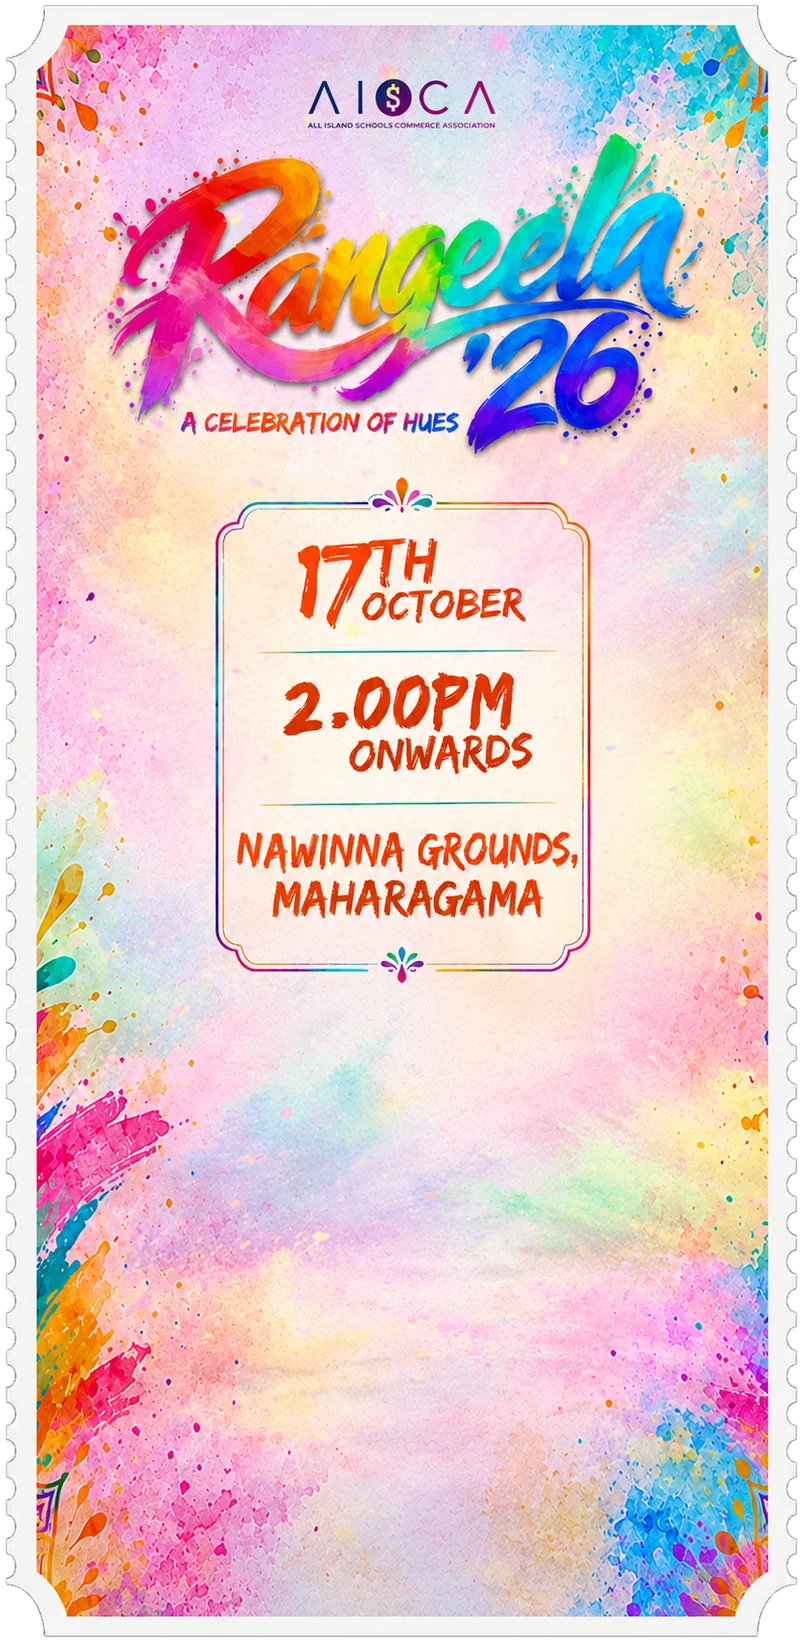
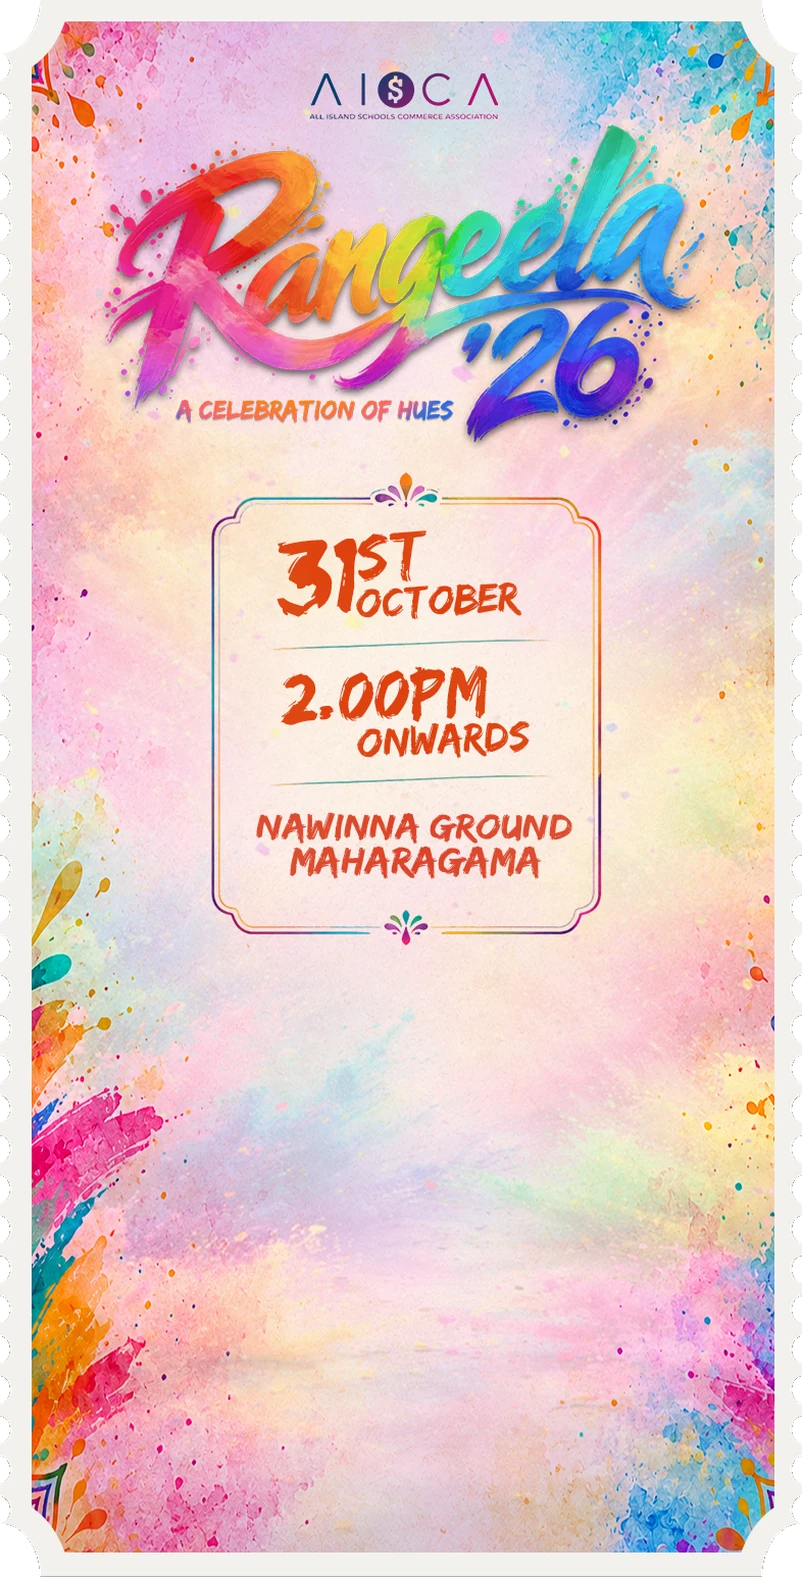
Rangeela: postponed to 31 Oct, new ticket art, notice

diff --git a/src/app/rangeela26/RangeelaClient.tsx b/src/app/rangeela26/RangeelaClient.tsx
@@ -222,6 +222,18 @@ export default function RangeelaClient({ serverNow, prices: serverPrices }: { se
       </div>
 
       <main className="lg-main">
+        {/* ── Date change notice ── */}
+        {RANGEELA.postponedNotice && (
+          <div className="lg-wrap lg-notice-wrap">
+            <motion.div initial={{ opacity: 0, y: -8 }} animate={{ opacity: 1, y: 0 }} transition={{ duration: 0.6, ease }} role="status" className="lg-glass lg-notice">
+              <span className="lg-notice-badge"><CalendarDays size={15} strokeWidth={2.4} /> New date</span>
+              <p className="lg-notice-text">
+                <strong>RANGEELA &apos;26 is postponed to {RANGEELA.dateLabel}.</strong> {RANGEELA.postponedNotice}
+              </p>
+            </motion.div>
+          </div>
+        )}
+
         {/* ── Hero ── */}
         <div className="lg-wrap lg-hero">
           <motion.div initial={{ opacity: 0, y: 14, scale: 0.985 }} animate={{ opacity: 1, y: 0, scale: 1 }} transition={{ duration: 0.9, ease }} className="lg-glass lg-hero-frame">
@@ -338,7 +350,7 @@ export default function RangeelaClient({ serverNow, prices: serverPrices }: { se
               {[
                 { key: 'early', name: 'Early bird', amount: PRICING.earlyBird, when: `Until ${PRICING.earlyBirdEndsLabel}`, color: C.magenta, active: early && open, over: !early },
                 { key: 'online', name: 'Online', amount: P.standard, when: '10th October until the event', color: C.orange, active: !early && open, over: !open },
-                { key: 'gate', name: 'At the gate', amount: P.gate, when: 'On the day, 17th October', color: C.violet, active: !open, over: false },
+                { key: 'gate', name: 'At the gate', amount: P.gate, when: `On the day, ${RANGEELA.dateShort}`, color: C.violet, active: !open, over: false },
               ].map((t) => (
                 <div key={t.key} className={`lg-tier ${t.active ? 'is-active' : ''} ${t.over ? 'is-over' : ''}`} style={t.active ? { borderColor: t.color, boxShadow: `0 14px 30px -16px ${t.color}` } : undefined}>
                   {t.active && <span className="lg-tier-badge" style={{ background: t.color }}>Now</span>}
@@ -661,6 +673,13 @@ export default function RangeelaClient({ serverNow, prices: serverPrices }: { se
         .lg-icon-btn { width: 36px; height: 36px; display: flex; align-items: center; justify-content: center; border: none; background: rgba(255,255,255,0.7); border-radius: 50%; color: ${C.muted}; cursor: pointer; flex-shrink: 0; }
         .lg-check { display: flex; gap: 12px; align-items: flex-start; margin-top: 20px; cursor: pointer; font-size: 14px; line-height: 1.6; color: ${C.body}; }
         .lg-check input { width: 22px; height: 22px; margin-top: 1px; accent-color: ${C.violet}; flex-shrink: 0; }
+        .lg-notice-wrap { padding-bottom: 14px; }
+        .lg-notice { position: relative; display: flex; align-items: center; gap: 14px; padding: 14px 18px; border-radius: 22px; overflow: hidden; }
+        .lg-notice::before { content: ''; position: absolute; inset: 0; border-radius: inherit; padding: 1.5px; background: linear-gradient(100deg, #E6007E, #FF7A00, #FFC400, #00A8E8, #7B2FF7); -webkit-mask: linear-gradient(#000 0 0) content-box, linear-gradient(#000 0 0); -webkit-mask-composite: xor; mask-composite: exclude; pointer-events: none; }
+        .lg-notice-badge { flex-shrink: 0; display: inline-flex; align-items: center; gap: 6px; padding: 7px 12px; border-radius: 999px; color: #fff; font-size: 12.5px; font-weight: 800; letter-spacing: .04em; text-transform: uppercase; background: linear-gradient(100deg, #E6007E, #FF7A00); box-shadow: 0 8px 18px -8px rgba(230,0,126,0.6); }
+        .lg-notice-text { margin: 0; font-size: 14.5px; line-height: 1.55; color: #3B2A38; }
+        .lg-notice-text strong { color: #D9480F; font-weight: 800; }
+        @media (max-width: 640px) { .lg-notice { flex-direction: column; align-items: flex-start; gap: 10px; padding: 14px 16px; } .lg-notice-text { font-size: 14px; } }
         .lg-alert { display: flex; gap: 10px; align-items: flex-start; padding: 13px 15px; border-radius: 18px; background: rgba(255,240,240,0.9); border: 1px solid #FBC6C6; color: #B42318; font-size: 14px; line-height: 1.55; margin-bottom: 18px; }
         .lg-help { text-align: center; font-size: 13px; color: ${C.muted}; margin: 14px 0 0; }
         .lg-help a { color: ${C.violet}; font-weight: 700; }

diff --git a/src/app/rangeela26/ticket/[token]/TicketView.tsx b/src/app/rangeela26/ticket/[token]/TicketView.tsx
@@ -1,15 +1,16 @@
 'use client'
 
 import { useState } from 'react'
+import { RANGEELA } from '@/lib/rangeela'
 
 // The RANGEELA '26 ticket, drawn on the official ticket artwork with the
 // student's own QR code, name and ticket number in the empty space.
-// Positions are percentages of the artwork (802 x 1642) so it looks the
+// Positions are percentages of the artwork (802 x 1577) so it looks the
 // same on every screen, and "Save ticket" paints the same layout onto a
 // canvas so students can keep a copy in their photos.
 
 const W = 802
-const H = 1642
+const H = 1577
 const INK = '#241628'
 const ORANGE = '#D9480F'
 const VIOLET = '#7B2FF7'
@@ -18,11 +19,11 @@ const BODY = "'Inter', -apple-system, BlinkMacSystemFont, system-ui, sans-serif"
 
 // Layout on the artwork, in artwork pixels
 const L = {
-  nameY: 1024,
-  schoolY: 1067,
-  qrX: 216, qrY: 1095, qrSize: 369, qrPad: 20,
-  pillY: 1503,
-  noteY: 1556,
+  nameY: 987,
+  schoolY: 1029,
+  qrX: 223, qrY: 1056, qrSize: 356, qrPad: 20,
+  pillY: 1449,
+  noteY: 1499,
 }
 
 type Props = {
@@ -120,6 +121,12 @@ export default function TicketView(p: Props) {
           </div>
         ) : (
           <>
+            {RANGEELA.postponedNotice && (
+              <div className="tk-glass tk-notice" role="status">
+                <strong>New date: {RANGEELA.dateLabel}</strong>
+                <span>This ticket is valid for the new date.</span>
+              </div>
+            )}
             <div className="tk-ticket" role="img" aria-label={`RANGEELA '26 ticket for ${p.name}, ${p.ticketNumber}`}>
               <img src="/rangeela/ticket-bg.webp" alt="" className="tk-art" />
               <div className="tk-name" style={{ top: pct(L.nameY, H), fontSize: `${Math.min(5.4, 118 / Math.max(1, (p.name || '').length))}cqw` }}>{p.name}</div>
@@ -151,7 +158,7 @@ export default function TicketView(p: Props) {
               <a className="tk-btn tk-btn-wa" href={p.whatsappGroup} target="_blank" rel="noopener noreferrer">Join the WhatsApp group</a>
             </div>
             {saveError && <p className="tk-err">{saveError}</p>}
-            <p className="tk-foot">Saturday, 17th October 2026 · 2.00 PM onwards · Nawinna Grounds, Maharagama</p>
+            <p className="tk-foot">{RANGEELA.dateLabel} · {RANGEELA.timeLabel} · {RANGEELA.venue}</p>
           </>
         )}
       </div>
@@ -178,6 +185,8 @@ export default function TicketView(p: Props) {
         .tk-note { font-size: 2.1cqw; font-weight: 700; letter-spacing: .16em; text-transform: uppercase; color: ${INK}; opacity: .7; }
 
         .tk-glass { background: rgba(255,255,255,0.55); border: 1px solid rgba(255,255,255,0.8); -webkit-backdrop-filter: blur(22px) saturate(170%); backdrop-filter: blur(22px) saturate(170%); box-shadow: 0 10px 30px -14px rgba(60,20,80,0.25), inset 0 1px 0 rgba(255,255,255,0.95); border-radius: 22px; }
+        .tk-notice { display: flex; flex-direction: column; gap: 2px; margin-bottom: 14px; padding: 11px 16px; text-align: center; font-size: 13.5px; line-height: 1.45; color: #4E3E4B; border-color: rgba(230,0,126,0.35); }
+        .tk-notice strong { font-family: ${DISPLAY}; font-size: 16px; font-weight: 800; color: ${ORANGE}; }
         .tk-info { margin-top: 18px; padding: 14px 16px; font-size: 14px; line-height: 1.6; color: #4E3E4B; text-align: center; }
         .tk-info-used { color: #B42318; font-weight: 600; }
         .tk-actions { display: flex; flex-direction: column; gap: 10px; margin-top: 14px; }

diff --git a/src/app/rangeela26/page.tsx b/src/app/rangeela26/page.tsx
@@ -13,19 +13,19 @@ export async function generateMetadata(): Promise<Metadata> {
   return {
   title: "RANGEELA '26 | A Celebration of Hues",
   description:
-    `RANGEELA '26 by AISCA. One canvas, a thousand hues. Saturday 17th October 2026, 2.00 PM onwards at Nawinna Grounds, Maharagama. ${priceLine}`,
+    `RANGEELA '26 by AISCA. One canvas, a thousand hues. Saturday 31st October 2026, 2.00 PM onwards at Nawinna Grounds, Maharagama. ${priceLine}`,
   alternates: { canonical: 'https://aisca.lk/rangeela26' },
   openGraph: {
     type: 'website',
     url: 'https://aisca.lk/rangeela26',
     title: "RANGEELA '26 | A Celebration of Hues",
-    description: `The colours are calling. 17th October, Nawinna Grounds, Maharagama, 2.00 PM onwards. ${priceLine}`,
+    description: `The colours are calling. 31st October, Nawinna Grounds, Maharagama, 2.00 PM onwards. ${priceLine}`,
     images: [{ url: 'https://aisca.lk/rangeela/og.jpg', width: 1200, height: 630, alt: "RANGEELA '26 A Celebration of Hues" }],
   },
   twitter: {
     card: 'summary_large_image',
     title: "RANGEELA '26 | A Celebration of Hues",
-    description: `The colours are calling. 17th October, Nawinna Grounds, Maharagama. ${priceLine}`,
+    description: `The colours are calling. 31st October, Nawinna Grounds, Maharagama. ${priceLine}`,
     images: ['https://aisca.lk/rangeela/og.jpg'],
   },
   }

diff --git a/src/lib/rangeela-email.ts b/src/lib/rangeela-email.ts
@@ -83,7 +83,7 @@ export async function sendRangeelaReceivedEmail({ to, name, ticketNumber, amount
   <tr><td style="padding:0 32px 14px;">
     <table role="presentation" width="100%" cellpadding="0" cellspacing="0">
       <tr>
-        <td width="33%" style="padding:10px 6px;text-align:center;background:#FFF1E6;border-radius:12px;"><p style="margin:0;font-size:10px;letter-spacing:1.5px;text-transform:uppercase;color:#A0826B;font-family:${FONT};">Date</p><p style="margin:4px 0 0;font-size:14px;font-weight:bold;color:#E0561B;font-family:${FONT};">17th October</p></td>
+        <td width="33%" style="padding:10px 6px;text-align:center;background:#FFF1E6;border-radius:12px;"><p style="margin:0;font-size:10px;letter-spacing:1.5px;text-transform:uppercase;color:#A0826B;font-family:${FONT};">Date</p><p style="margin:4px 0 0;font-size:14px;font-weight:bold;color:#E0561B;font-family:${FONT};">31st October</p></td>
         <td width="4"></td>
         <td width="33%" style="padding:10px 6px;text-align:center;background:#EEF6FF;border-radius:12px;"><p style="margin:0;font-size:10px;letter-spacing:1.5px;text-transform:uppercase;color:#6B7FA0;font-family:${FONT};">Time</p><p style="margin:4px 0 0;font-size:14px;font-weight:bold;color:#2563EB;font-family:${FONT};">2.00 PM onwards</p></td>
         <td width="4"></td>

diff --git a/src/lib/rangeela.ts b/src/lib/rangeela.ts
@@ -5,14 +5,16 @@
 export const RANGEELA = {
   name: "RANGEELA '26",
   tagline: 'A Celebration of Hues',
-  dateLabel: 'Saturday, 17th October 2026',
-  dateShort: '17th October',
+  dateLabel: 'Saturday, 31st October 2026',
+  dateShort: '31st October',
+  // Shown as a notice on the page and ticket. Set to '' once it is no longer needed.
+  postponedNotice: 'Same time, same venue. Tickets you already have are valid for the new date, there is nothing you need to do.',
   timeLabel: '2.00 PM onwards',
   venue: 'Nawinna Grounds, Maharagama',
   venueArea: 'Maharagama',
   price: 1200,          // standard online price (after early bird)
   // Online ticket sales close at this moment (Sri Lanka time).
-  salesCloseISO: '2026-10-17T12:00:00+05:30',
+  salesCloseISO: '2026-10-31T12:00:00+05:30',
   whatsappGroup: 'https://chat.whatsapp.com/HklcPlrIl3P6tKJsWDbxu8',
   // RANGEELA help line: two organisers on WhatsApp.
   helpContacts: [
@@ -40,7 +42,7 @@ export const PRICING = {
   gate: 1500,
   earlyBirdEndsISO: '2026-10-10T00:00:00+05:30',
   earlyBirdEndsLabel: '9th October, midnight',
-  eventStartISO: '2026-10-17T14:00:00+05:30',
+  eventStartISO: '2026-10-31T14:00:00+05:30',
 } as const
 
 /** Prices the chairman can change in admin.aisca.lk. These are only the fallback. */
